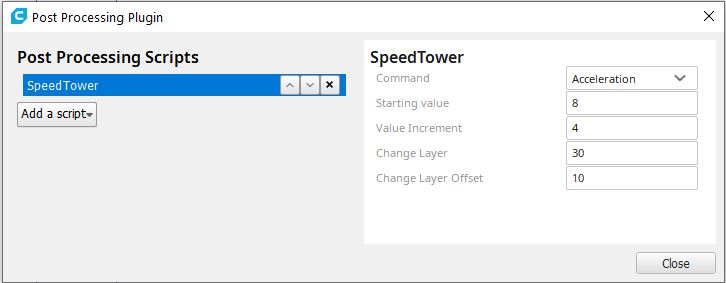
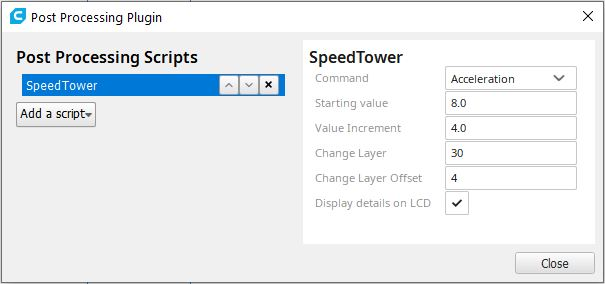
update retract

diff --git a/resources/SpeedTower.py b/resources/SpeedTower.py
@@ -18,6 +18,8 @@ import re #To perform the search
 from UM.Application import Application
 from UM.Message import Message
 
+__version__ = '1.1'
+
 class SpeedTower(Script):
     def __init__(self):
         super().__init__()
@@ -78,8 +80,8 @@ class SpeedTower(Script):
                 },
                 "lcdfeedback":
                 {
-                    "label": "Display details on LCD?",
-                    "description": "This setting will insert M117 gcode instructions, to display current junction deviation value is being used.",
+                    "label": "Display details on LCD",
+                    "description": "This setting will insert M117 gcode instructions, to display current modification in the G-Code is being used.",
                     "type": "bool",
                     "default_value": true
                 }                

diff --git a/resources/RetractTower.py b/resources/RetractTower.py
@@ -180,13 +180,13 @@ class RetractTower(Script):
         CurrentValue = 0
         save_e = 0
         Command=""
- 
+
+        # Logger.log('d', 'Instruction : {:s}'.format(Instruction))
+        lcd_gcode = "M117 {:s} ({:.1f}/{:.1f})".format(Instruction,StartValue,ValueChange)
+        
         if  (Instruction=='speed'):
             StartValue = StartValue*60
             ValueChange = ValueChange*60
-                                
-        # Logger.log('d', 'Instruction : {:s}'.format(Instruction))
-        lcd_gcode = "M117 Instruction : {:s}".format(Instruction)
 
         idl=0
         
